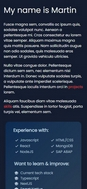
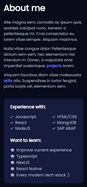
images updated

diff --git a/src/components/About.js b/src/components/About.js
@@ -26,15 +26,12 @@ const About = () => {
             <h4 className="">
               Alte magna sem, convallis ac ipsum quis, sodales volutpat nunc.
               Aenean a pellentesque mi. Cras consectetur eu lorem vitae semper.
-              Aliquam maximus magna quis mattis posuere. Nam sollicitudin augue
-              non odio sodales, quis malesuada eros semper. Ut gravida vehicula
-              ultricies.
+              Aliquam maximus.
             </h4>
             <h4>
               Nulla vitae congue dolor. Pellentesque dictum sem sem, nec
-              elementum nisi interdum in. Donec vulputate sodales turpis, a
-              vulputate ante imperdiet scelerisque. Pellentesque iaculis
-              interdum orci in{' '}
+              elementum nisi interdum in. Donec, a
+              vulputate ante imperdiet scelerisque.{' '}
               <span>
                 <a
                   className="text-highlighted font-semibold"
